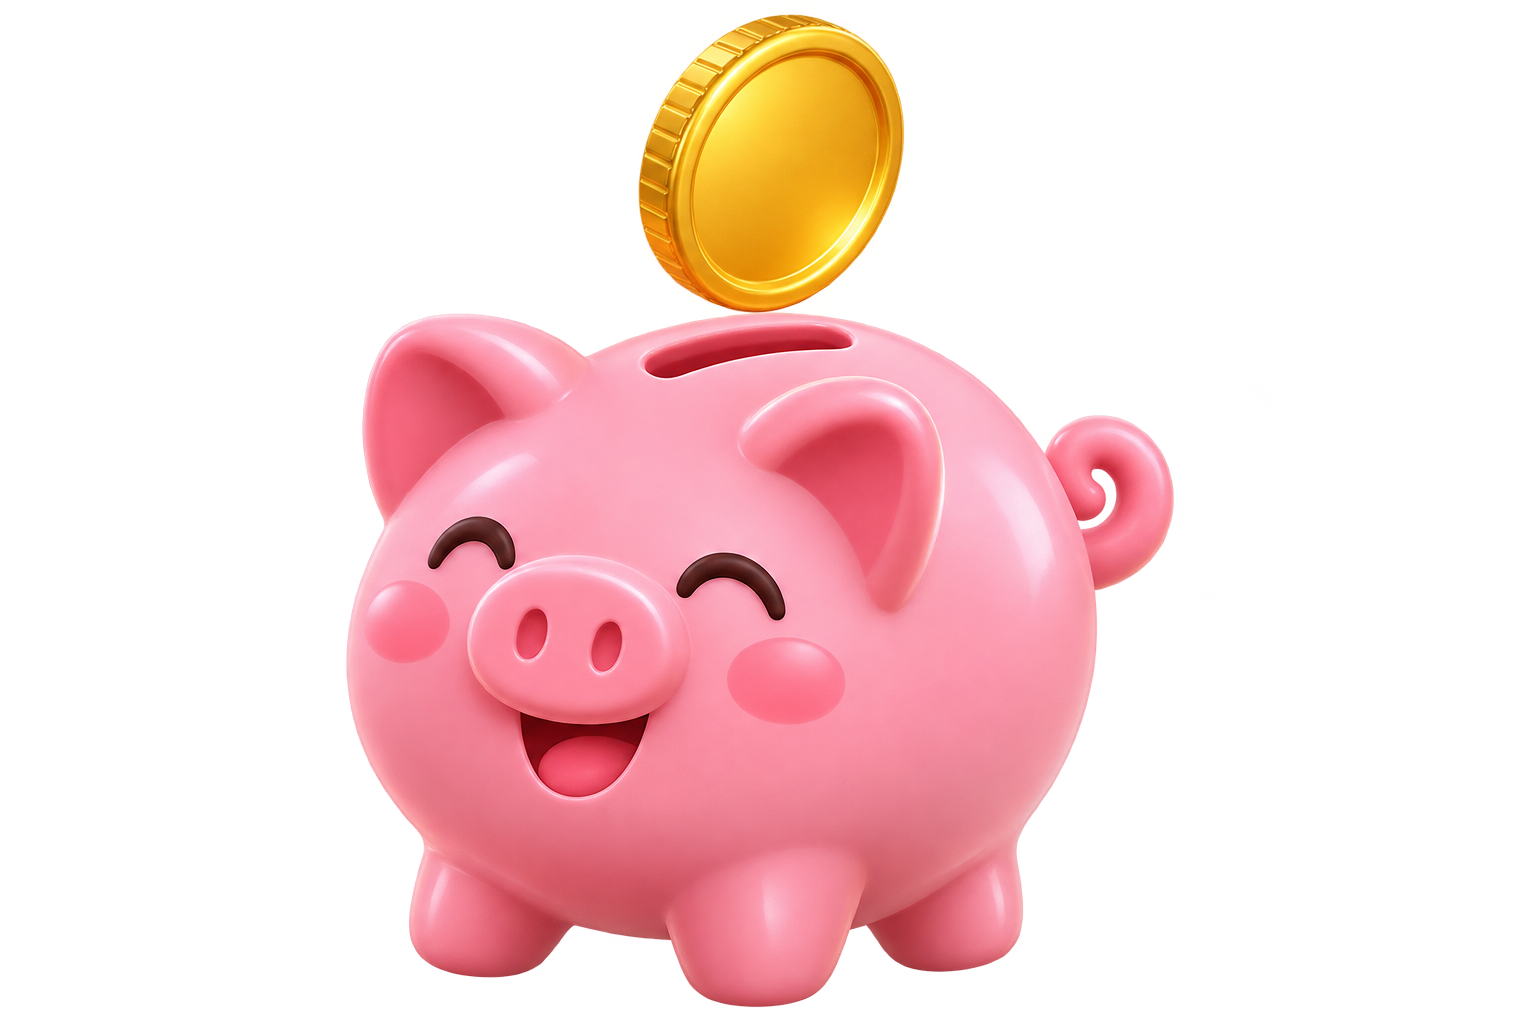
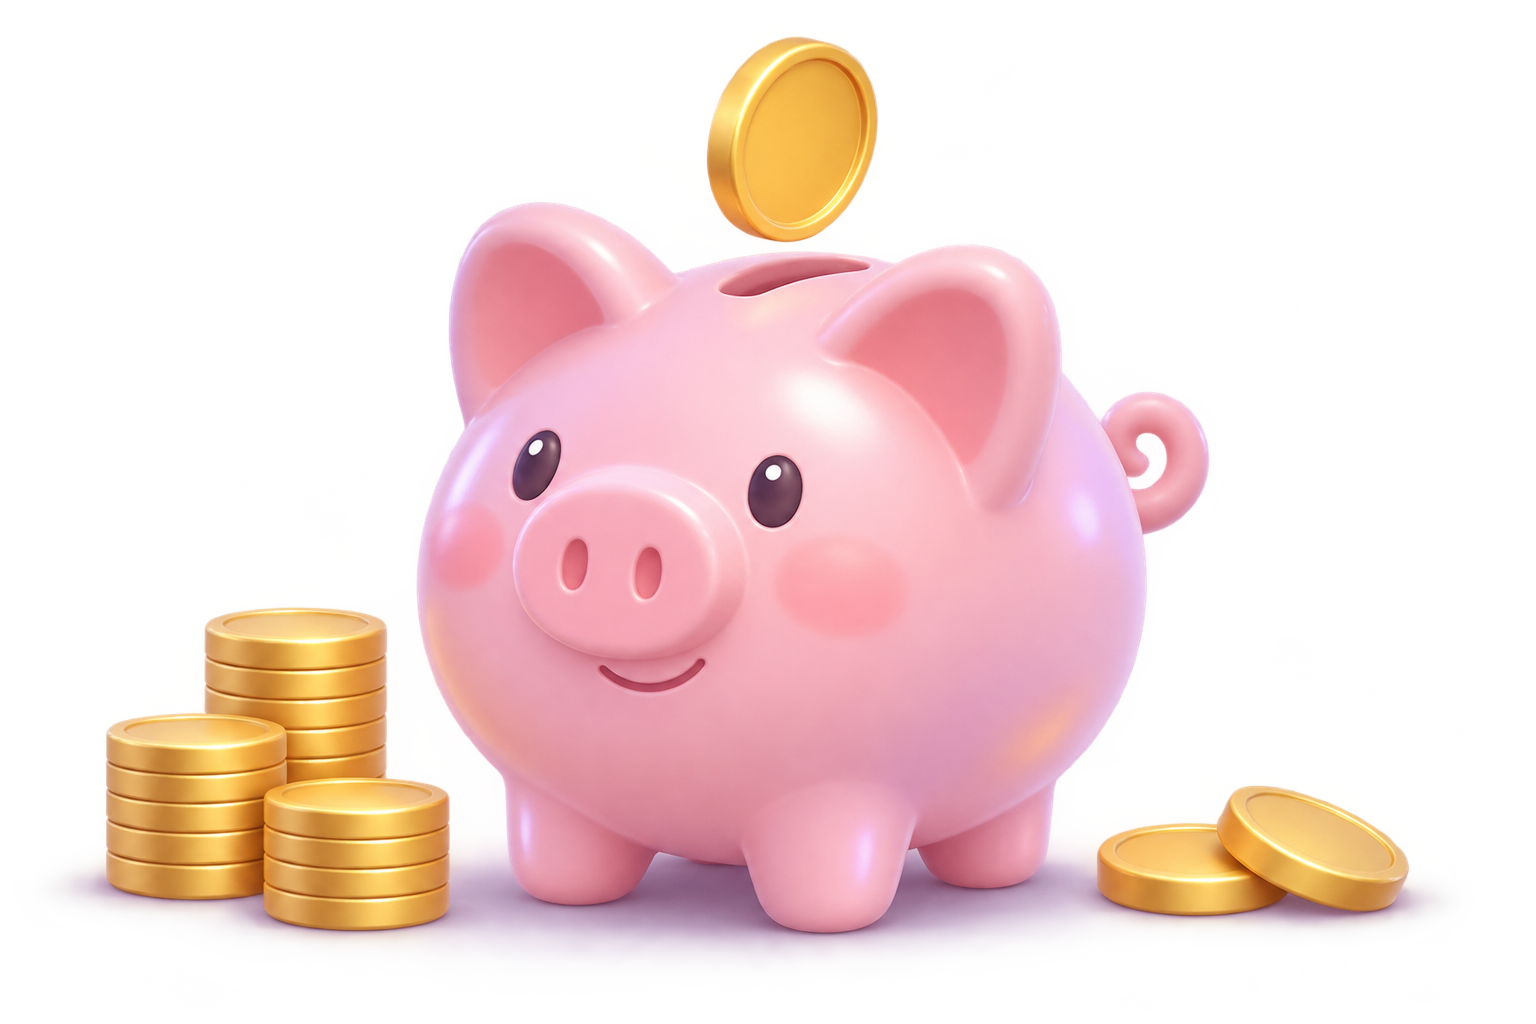
Melhorar visual e responsividade do Cofrinho

diff --git a/style.css b/style.css
@@ -378,24 +378,26 @@ html,body{max-width:100%;overflow-x:clip}img{max-width:100%}dialog{max-height:mi
 
 .cash-denomination .cash-stepper{display:flex;align-items:center;gap:3px;width:100%}.cash-stepper button{flex:0 0 28px;width:28px;height:34px;border:0;border-radius:9px;background:#fff;color:#714aa1;font-weight:800;font-size:19px}.cash-stepper input{flex:1;width:0;min-width:0;padding:6px 1px;font-size:16px;-moz-appearance:textfield}.cash-stepper input::-webkit-inner-spin-button,.cash-stepper input::-webkit-outer-spin-button{-webkit-appearance:none;margin:0}.cash-denomination.bill{background:linear-gradient(135deg,#d5e9d7,#f3f8e9);border-color:#a6c9a9}.cash-denomination.bill strong{border:1px solid #94b49b;border-radius:5px;padding:3px 6px;color:#3b6650}.cash-denomination.coin strong{border-radius:50%;background:#e8d19a;border:2px solid #bd9f63;color:#725d35;padding:5px}.cash-grid{grid-template-columns:repeat(3,minmax(0,1fr))}
 
-dialog.cash-dialog{width:min(490px,calc(100% - 24px));max-height:min(90dvh,820px);background:linear-gradient(170deg,#f0e0fb,#fffafd 45%,#f3e7fb);padding:20px;color:#34114d;border-radius:26px}
-.cash-dialog .modal-head{margin-bottom:2px}.cash-dialog .modal-head h2{font-size:22px}
-.cash-dialog .pig-hero{height:112px;display:flex;align-items:center;justify-content:center;overflow:hidden}
-.cash-dialog .pig-hero img{height:145px;max-width:100%;object-fit:contain}
-.pig-balance{padding:14px 18px;border:1px solid #fff;border-radius:18px;background:#fff9ff;box-shadow:0 5px 12px #936eb329;margin:3px 0 12px;display:flex;flex-direction:column;gap:2px}
+dialog.cash-dialog{width:min(500px,calc(100% - 24px));max-height:min(92dvh,840px);background:linear-gradient(165deg,#f3e6fc 0%,#fffafd 38%,#f6eaf8 100%);padding:20px;color:#34114d;border:1px solid #ffffffcc;border-radius:30px;box-shadow:0 24px 70px #3c155b4d}
+.cash-dialog::backdrop{background:#32154a73;backdrop-filter:blur(5px)}
+.cash-dialog .modal-head{margin-bottom:8px}.cash-dialog .modal-head h2{font-size:23px;letter-spacing:-.35px}
+.cash-dialog .pig-hero{position:relative;height:174px;display:flex;align-items:center;justify-content:center;overflow:hidden;margin:0 0 -20px;border-radius:24px;background:radial-gradient(circle at 50% 12%,#fff8ff 0 13%,transparent 37%),linear-gradient(145deg,#e8d2f7,#f9eafa 58%,#eadcf8);border:1px solid #ffffffd9;box-shadow:inset 0 1px 0 #fff,0 10px 24px #80539c24}
+.cash-dialog .pig-hero:before,.cash-dialog .pig-hero:after{content:"";position:absolute;border-radius:50%;background:#fff8ff66}.cash-dialog .pig-hero:before{width:92px;height:92px;left:-30px;top:-22px}.cash-dialog .pig-hero:after{width:58px;height:58px;right:12px;bottom:8px}
+.cash-dialog .pig-hero img{position:relative;z-index:1;width:min(390px,100%);height:164px;max-width:100%;object-fit:contain;object-position:center}
+.pig-balance{position:relative;z-index:2;padding:15px 18px;border:1px solid #fff;border-radius:20px;background:#fffafeea;box-shadow:0 8px 20px #79538e29;margin:0 12px 14px;display:flex;flex-direction:column;gap:2px;backdrop-filter:blur(10px)}
 .pig-balance span{font-size:12px;font-weight:700;color:#755a83}.pig-balance strong{font:900 27px Nunito;color:#43105c}
 .pig-modes{display:flex;background:#ede1f6;border:1px solid #e2d1ef;border-radius:24px;padding:3px;gap:3px}
 .pig-mode{flex:1;border:0;border-radius:20px;min-height:44px;color:#583274;background:transparent;font-weight:700}
 .pig-mode.active{color:#fff;background:linear-gradient(110deg,#a348d1,#7020a3);box-shadow:0 3px 7px #7b40965c}
 .pig-caption{font:800 14px Nunito;text-align:center;margin:16px 0 10px}
-.cash-dialog .cash-grid{grid-template-columns:repeat(3,minmax(0,1fr));gap:8px}
+.cash-dialog .cash-grid{grid-template-columns:repeat(3,minmax(0,1fr));gap:9px}
 .cash-dialog .cash-denomination{min-width:0;gap:5px;padding:9px 5px;border:0;border-radius:16px;box-shadow:inset 0 -3px 0 #9471a126}
 .cash-dialog .cash-denomination:nth-child(6n+1){background:#c9efe7}.cash-dialog .cash-denomination:nth-child(6n+2){background:#f8d7e7}.cash-dialog .cash-denomination:nth-child(6n+3){background:#ffebbd}.cash-dialog .cash-denomination:nth-child(6n+4){background:#ead5fb}.cash-dialog .cash-denomination:nth-child(6n+5){background:#cdebf0}.cash-dialog .cash-denomination:nth-child(6n){background:#e1d6fa}
 .cash-dialog .money-art{display:flex;justify-content:center;align-items:center;gap:3px;width:64px;max-width:90%;height:34px;border-radius:5px;background:linear-gradient(135deg,#7bc6be,#b0e6d2);box-shadow:0 3px 5px #73518736;color:#315b68;font-size:15px;font-weight:900;transform:rotate(-4deg)}
 .cash-dialog .money-art span{font-size:10px;letter-spacing:0}.cash-dialog .coin .money-art{width:36px;height:36px;border-radius:50%;background:linear-gradient(145deg,#f1db9b,#c6a552);border:3px double #fff2c3;transform:none;color:#70551b}
 .cash-dialog .cash-denomination strong{background:none;border:0;border-radius:0;padding:0;color:#34114d;font-size:12px}
 .cash-dialog .cash-stepper{gap:2px}.cash-dialog .cash-stepper button{flex-basis:29px;width:29px;min-height:36px;height:36px;background:#fffafde8}.cash-dialog .cash-stepper input{height:36px;border:0;background:#ffffff9c}
-.cash-dialog .cash-total{margin:16px 0 4px;font-weight:700}.cash-dialog #cash-result{line-height:1.4;margin-bottom:10px}.cash-dialog .wide{position:sticky;bottom:0;z-index:2;border-radius:20px;min-height:52px;font-size:15px}
-@media(max-width:650px){dialog.cash-dialog{position:fixed;inset:0;margin:0;width:100%;max-width:none;height:100dvh;max-height:100dvh;border-radius:0;padding:20px 16px calc(18px + env(safe-area-inset-bottom));box-sizing:border-box}.cash-dialog .cash-grid{grid-template-columns:repeat(3,minmax(0,1fr))}}
+.cash-dialog .cash-total{margin:16px 0 4px;font-weight:700}.cash-dialog #cash-result{line-height:1.4;margin-bottom:10px}.cash-dialog .wide{position:relative;bottom:auto;z-index:2;border-radius:20px;min-height:54px;font-size:15px;margin-top:12px;box-shadow:0 10px 24px #71369b42}
+@media(max-width:650px){dialog.cash-dialog{position:fixed;inset:0;margin:0;width:100%;max-width:none;height:100dvh;max-height:100dvh;border-radius:0;padding:18px 16px calc(24px + env(safe-area-inset-bottom));box-sizing:border-box}.cash-dialog .pig-hero{height:168px}.cash-dialog .pig-hero img{height:158px}.cash-dialog .cash-grid{grid-template-columns:repeat(3,minmax(0,1fr));gap:8px}.cash-dialog .cash-denomination{padding:9px 5px}.cash-dialog .money-art{height:34px}.cash-dialog .cash-total{margin-top:18px}}
 
 .nav-link i svg,.stat-icon svg,.row-icon svg,.empty-icon svg,#profile-avatar svg{display:block;width:21px;height:21px}.nav-link i{display:grid;place-items:center}.stat-icon,.row-icon,.empty-icon,#profile-avatar{display:grid;place-items:center}.bottom-banner{gap:12px}.brand-icon{font-family:Nunito,sans-serif;font-weight:900}
